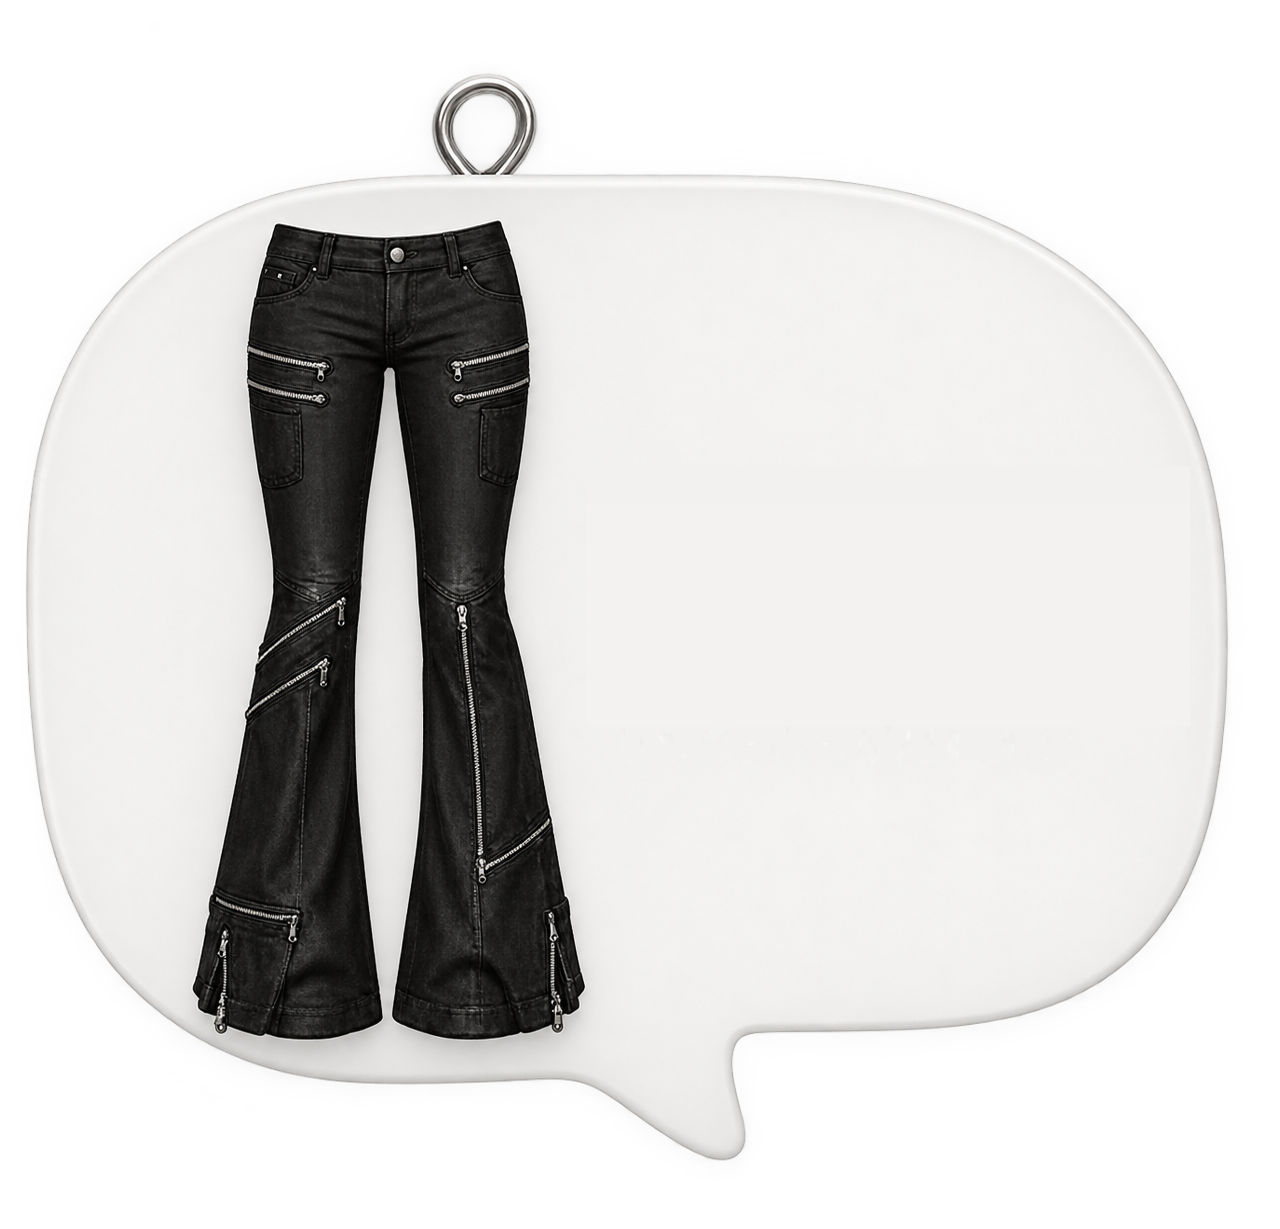
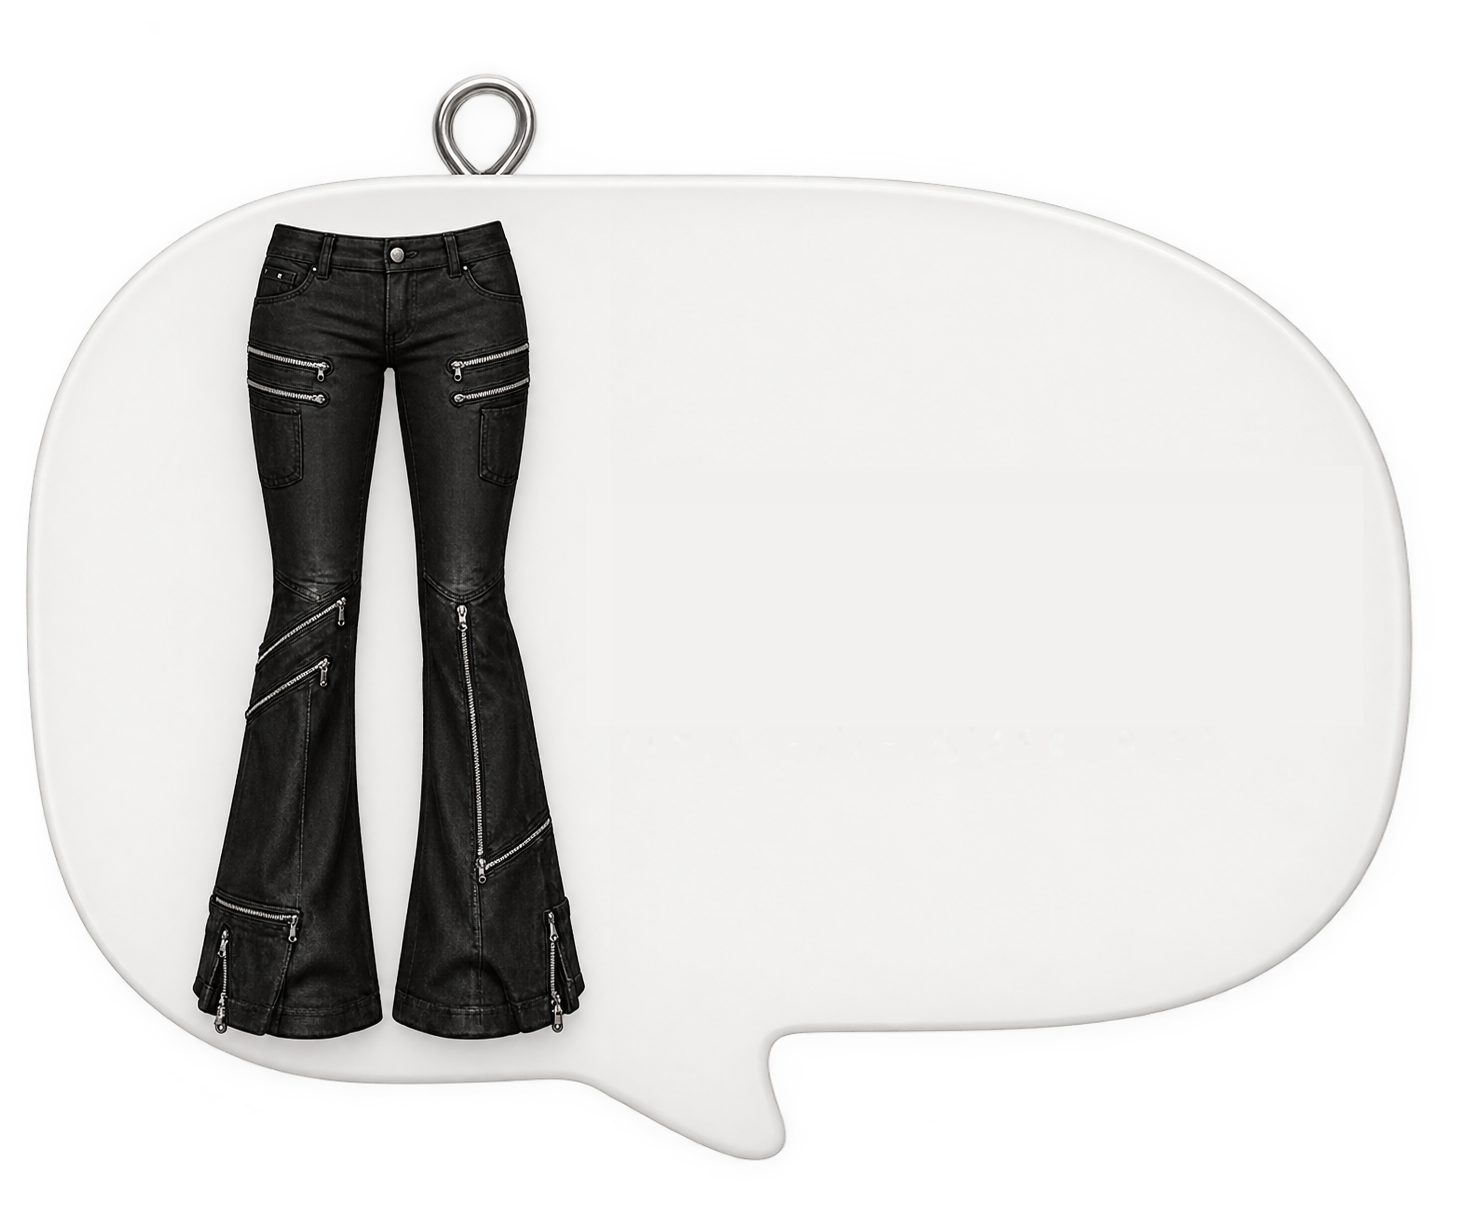
Fix remaining bubble artwork artifacts, unify colors/sizing, polish grid transition
- Jackets: properly close the bottom-left corner using the garment's true
  boundary instead of an approximated curve, removing the lingering
  patch seam and stray fragments
- Tops: remove a leftover bezel-ring wedge where the hanging loop meets
  the bubble curve
- Unify all five category labels to the same rendered font size and
  brighten Sets' bubble to match the other four's white
- Widen the Bottoms bubble for better spacing between the pants art and
  its label; nudge it and "Bottoms" left for better balance
- Simplify the Shop page header and empty-state copy to match the
  site's plainer tone
- Stagger each category bubble's own fade-in on scroll instead of
  revealing the whole grid at once

diff --git a/components/views/closet-view.tsx b/components/views/closet-view.tsx
@@ -9,11 +9,25 @@ import { EnterChrome } from '@/components/enter-chrome'
 import './closet-charms.css'
 
 export function ClosetView() {
-  const { viewProduct } = useStore()
+  const { viewProduct, reducedMotion } = useStore()
 
   const scrollToPieces = () => {
     document.getElementById('shop-pieces')?.scrollIntoView({ behavior: 'smooth' })
   }
+
+  // Staggers each bubble's own fade-up as the grid scrolls into view,
+  // rather than one Reveal around the whole grid — a wrapping div per
+  // bubble would stop being a direct grid child, breaking the wide Sets
+  // item's grid-column:1/-1 rule, which only applies to direct children.
+  const bubbleReveal = (delay: number) =>
+    reducedMotion
+      ? {}
+      : {
+          initial: { opacity: 0, y: 28 },
+          whileInView: { opacity: 1, y: 0 },
+          viewport: { once: true, margin: '-80px' },
+          transition: { duration: 0.9, delay, ease: [0.22, 1, 0.36, 1] as const },
+        }
 
   return (
     <div className="relative overflow-hidden">
@@ -72,7 +86,8 @@ export function ClosetView() {
             once the client's new artwork is in. */}
         <div className="hc-grid-stage" aria-label="Category display">
           <div className="hc-grid">
-            <button
+            <motion.button
+              {...bubbleReveal(0)}
               onClick={() => viewProduct('corset')}
               data-cursor="hover"
               className="hc-grid-item"
@@ -90,9 +105,23 @@ export function ClosetView() {
                 className="hc-ai-bubble"
                 fetchPriority="high"
               />
-            </button>
+              <span
+                aria-hidden="true"
+                className="hc-heading-label"
+                style={
+                  {
+                    ['--hc-label-x' as string]: '73.5%',
+                    ['--hc-label-y' as string]: '47.9%',
+                    ['--hc-label-size' as string]: '9.05cqw',
+                  } as CSSProperties
+                }
+              >
+                Tops
+              </span>
+            </motion.button>
 
-            <button
+            <motion.button
+              {...bubbleReveal(0.08)}
               onClick={() => viewProduct('slip-dress')}
               data-cursor="hover"
               className="hc-grid-item"
@@ -103,6 +132,7 @@ export function ClosetView() {
                 src="/images/One Piece Fashion Sticker (no subtext).png"
                 alt="One Piece"
                 className="hc-ai-bubble"
+                style={{ transform: 'translateY(13.4px)' }}
                 fetchPriority="high"
               />
               <span
@@ -112,15 +142,16 @@ export function ClosetView() {
                   {
                     ['--hc-label-x' as string]: '71%',
                     ['--hc-label-y' as string]: '56.8%',
-                    ['--hc-label-size' as string]: '7.5cqw',
+                    ['--hc-label-size' as string]: '6.78cqw',
                   } as CSSProperties
                 }
               >
                 One Piece
               </span>
-            </button>
+            </motion.button>
 
-            <button
+            <motion.button
+              {...bubbleReveal(0.16)}
               onClick={() => viewProduct('moto-jacket')}
               data-cursor="hover"
               className="hc-grid-item"
@@ -131,6 +162,7 @@ export function ClosetView() {
                 src="/images/Jackets_ Second Skin, Built to Armour (no subtext).png"
                 alt="Jackets"
                 className="hc-ai-bubble"
+                style={{ transform: 'translateY(1.7px)' }}
                 fetchPriority="high"
               />
               <span
@@ -140,22 +172,23 @@ export function ClosetView() {
                   {
                     ['--hc-label-x' as string]: '72.5%',
                     ['--hc-label-y' as string]: '57.4%',
-                    ['--hc-label-size' as string]: '7.8cqw',
+                    ['--hc-label-size' as string]: '6.78cqw',
                   } as CSSProperties
                 }
               >
                 Jackets
               </span>
-            </button>
+            </motion.button>
 
-            <button
+            <motion.button
+              {...bubbleReveal(0.24)}
               onClick={() => viewProduct('leather-pants')}
               data-cursor="hover"
               className="hc-grid-item"
               style={
                 {
                   ['--hc-ai-mask' as string]: "url('/images/Fashion BOTTOMS Tag with Flared Cargo Pants (no subtext).png')",
-                  ['--hc-item-scale' as string]: 0.69,
+                  ['--hc-item-scale' as string]: 0.798,
                 } as CSSProperties
               }
             >
@@ -171,17 +204,18 @@ export function ClosetView() {
                 className="hc-heading-label"
                 style={
                   {
-                    ['--hc-label-x' as string]: '65%',
+                    ['--hc-label-x' as string]: '66%',
                     ['--hc-label-y' as string]: '50%',
-                    ['--hc-label-size' as string]: '9cqw',
+                    ['--hc-label-size' as string]: '8.5cqw',
                   } as CSSProperties
                 }
               >
                 Bottoms
               </span>
-            </button>
+            </motion.button>
 
-            <button
+            <motion.button
+              {...bubbleReveal(0.32)}
               onClick={() => viewProduct('bodysuit')}
               data-cursor="hover"
               className="hc-grid-item hc-grid-item-wide"
@@ -201,13 +235,13 @@ export function ClosetView() {
                   {
                     ['--hc-label-x' as string]: '67.2%',
                     ['--hc-label-y' as string]: '57.3%',
-                    ['--hc-label-size' as string]: '9.5cqw',
+                    ['--hc-label-size' as string]: '6.78cqw',
                   } as CSSProperties
                 }
               >
                 Sets
               </span>
-            </button>
+            </motion.button>
           </div>
         </div>
       </section>

diff --git a/components/views/shop-view.tsx b/components/views/shop-view.tsx
@@ -23,16 +23,9 @@ export function ShopView() {
     <div className="mx-auto max-w-7xl px-5 pb-28 pt-28 sm:px-8 sm:pt-32">
       {/* Header */}
       <Reveal>
-        <p className="mb-3 text-[0.65rem] uppercase tracking-[0.4em] text-rose/90">
-          The Shop
-        </p>
         <h1 className="max-w-3xl font-serif text-[clamp(2.5rem,7vw,5rem)] leading-[0.92] tracking-tight text-primary">
-          Everything, laid bare.
+          The Shop
         </h1>
-        <p className="mt-5 max-w-lg text-pretty text-base leading-relaxed text-silver/80">
-          The complete collection. Filter by room, or take it all in at once —
-          each piece made in small, deliberate numbers.
-        </p>
       </Reveal>
 
       {/* Filters */}
@@ -168,9 +161,9 @@ export function ShopView() {
 
       {products.length === 0 && (
         <div className="py-32 text-center">
-          <p className="font-serif text-2xl text-silver">This room is empty.</p>
+          <p className="font-serif text-2xl text-silver">No pieces match this filter.</p>
           <p className="mt-2 text-sm text-muted-foreground">
-            Nothing here for now. Try another door.
+            Try a different filter.
           </p>
         </div>
       )}

diff --git a/components/views/product-view.tsx b/components/views/product-view.tsx
@@ -17,7 +17,7 @@ export function ProductView() {
   if (!product) {
     return (
       <div className="mx-auto flex max-w-7xl flex-col items-center gap-4 px-5 py-32 text-center sm:px-8">
-        <p className="font-serif text-2xl text-silver">This piece has gone missing.</p>
+        <p className="font-serif text-2xl text-silver">This piece isn't available.</p>
         <button
           onClick={() => navigate('closet')}
           data-cursor="hover"
